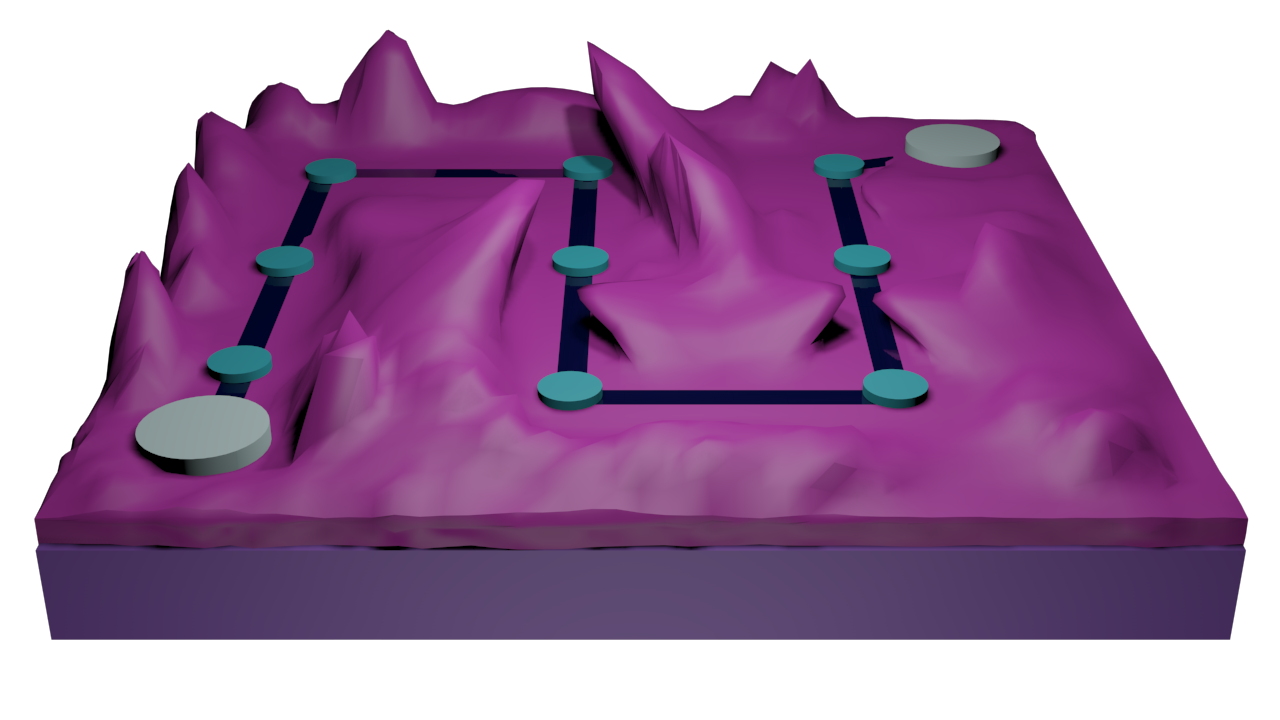
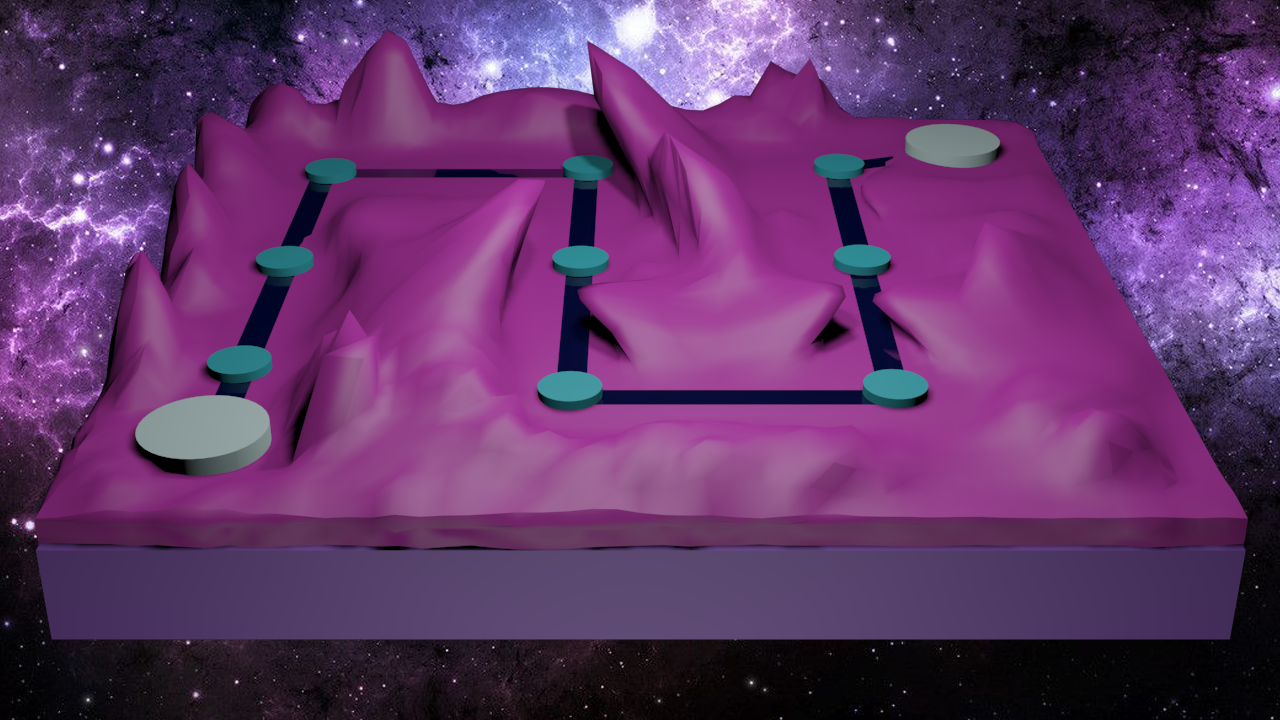
added volume control slider, fixed planets and bg

diff --git a/sceneManagerTest/worlds.js b/sceneManagerTest/worlds.js
@@ -25,9 +25,9 @@ function WorldPage()
 
     //booleanworld sprite is the planet to be able to enlarge when mouse is active
     //createsprite tell it where to be place
-    booleanworld = createSprite(((width/4)-127),(height/4)+160);
+    booleanworld = createSprite(((width/4)-125),(height/4)+153);
     //add the image to the sprite, normal is just a name given.
-    booleanworld.addAnimation("normal", planet1);
+    booleanworld.addAnimation("normal", planet3);
     //turn on mouse functions of sprite.
     booleanworld.mouseActive=true;//activate booleanworld
 
@@ -43,9 +43,9 @@ function WorldPage()
 
     //forworldsprite is the planet to be able to enlarge when mouse is active
     //createsprite tell it where to be place
-    forworld = createSprite(((width/4)+770),(height/4)+160);
+    forworld = createSprite(((width/4)+765),(height/4)+155);
     //add the image to the sprite, normal is just a name given.
-    forworld.addAnimation("normal", planet3);
+    forworld.addAnimation("normal", planet1);
     forworld.mouseActive=true;//activate hydra mouse click
 
     //whileworld sprite is the planet to be able to enlarge when mouse is active
@@ -79,6 +79,16 @@ function WorldPage()
       //add background image
       image(this.sceneManager.worldsMap, 0, 0,width,height);//display the worldsMap image
 
+      //slider import
+      //var volume = this.sceneManager.worldSelectMusic.setVolume();
+      var val = slider.value();
+      this.sceneManager.worldSelectMusic.setVolume(val);
+
+      /*var mute = muteButton.value();
+      muteButton.mousePressed(toggleMusic);*/
+
+
+
       //reset scale and set depth to be on top of over images or sprites
       booleanworld.depth = 1;
       booleanworld.scale= 1;
@@ -104,6 +114,7 @@ function WorldPage()
               this.sceneManager.worldSelectMusic.stop();
               this.sceneManager.worldMusic.play();
               this.sceneManager.worldMusic.setLoop(true);
+              this.sceneManager.worldMusic.setVolume(val);
           }
       }
       if(ifelseworld.mouseIsOver && check == false){
@@ -120,6 +131,7 @@ function WorldPage()
               this.sceneManager.worldSelectMusic.stop();
               this.sceneManager.worldMusic.play();
               this.sceneManager.worldMusic.setLoop(true);
+              this.sceneManager.worldMusic.setVolume(val);
           }
           /*else if (clock == 1){
             this.sceneManager.sfxSelectLeft.play();
@@ -136,6 +148,7 @@ function WorldPage()
               this.sceneManager.worldSelectMusic.stop();
               this.sceneManager.worldMusic.play();
               this.sceneManager.worldMusic.setLoop(true);
+              this.sceneManager.worldMusic.setVolume(val);
           }
       }
 

diff --git a/sceneManagerTest/init.js b/sceneManagerTest/init.js
@@ -15,6 +15,8 @@ var p1;
 var spaceShadows;
 var diamonds;
 var button, fontRegular;
+var slider;
+var sliderBanner;
 var R1,R2,R3;
 
 
@@ -569,7 +571,7 @@ function setup()
     mgr.showScene(WorldPage);
 
     //LET'S PLAY SOME MUSIC MY DUDES!
-    worldSelectMusic.setVolume(0.1);
+    worldSelectMusic.setVolume(0.001);
     worldSelectMusic.play();
     worldSelectMusic.setLoop(true);
 
@@ -585,6 +587,21 @@ function setup()
     mgr.sfxSelectRight = sfxSelectRight;
     mgr.sfxCorrect = sfxCorrect;
     mgr.sfxWrong = sfxWrong;
+
+
+    //sliderBanner.fill(col);
+
+    slider = createSlider(0, 1, 0.1, 0.1);
+    slider.position(width/4, height/4);
+    slider.style('width', '300px');
+    slider.style('margin', 'auto');
+
+
+  /*  //create slider for volume
+    var col = color(65);
+    fill(col);
+    sliderBanner = rect(width/4, height/4, 500, 500);*/
+
 }
 
 function windowResized() {

diff --git a/sceneManagerTest/world1.js b/sceneManagerTest/world1.js
@@ -35,6 +35,9 @@ function World1()
         clear();
         image(wm, 0, 0, width, height);
 
+        var val = slider.value();
+        this.sceneManager.worldMusic.setVolume(val);
+
         incorrect = false;
         //check to see if sprite is at node
         checkoverlap();
